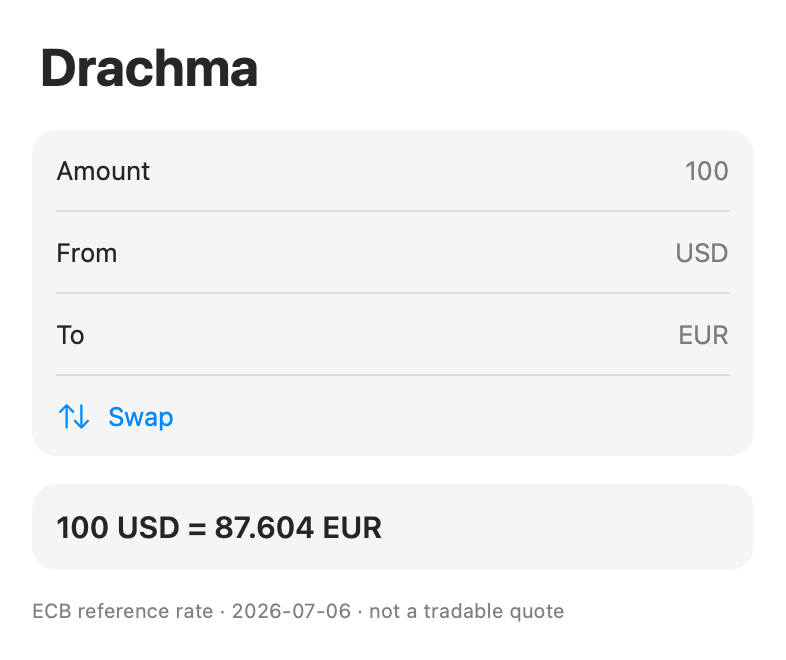
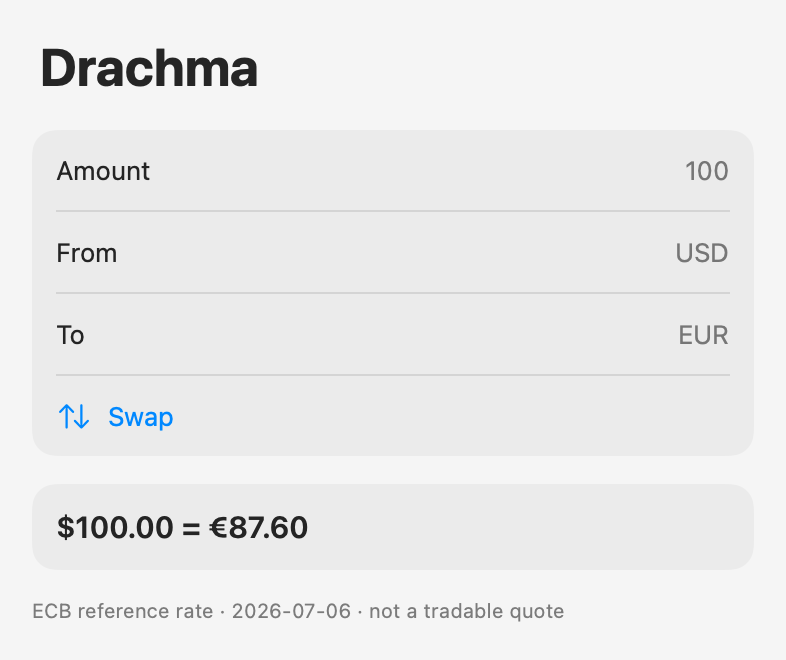
docs: light and dark screenshots, now with currency symbols
The render tool draws both color schemes from the same real view — dark mode
costs nothing because every color is semantic. Shots refresh to show the new
.currency formatting ($100.00 = €87.60).

Changed region(s): [[0.0611, 0.7576, 0.4885, 0.8182]]

diff --git a/tools/RenderScreenshots/main.swift b/tools/RenderScreenshots/main.swift
@@ -6,11 +6,11 @@ import DrachmaCore
 import DrachmaApp
 
 // Renders README screenshots straight from the real views (Pulse playbook).
-// Usage: swift run render-screenshots [output.png]
+// Usage: swift run render-screenshots [output-directory]
 
 /// Deterministic fixture using the actual ECB reference rates of 2026-07-06,
-/// captured during the MCP smoke test — so the screenshot is reproducible and
-/// shows real numbers.
+/// captured during the MCP smoke test — so the screenshots are reproducible
+/// and show real numbers.
 struct FixtureRates: RatesClient {
     func latestRates(base: String) async throws -> RatesSnapshot {
         RatesSnapshot(base: "USD", date: "2026-07-06", rates: [
@@ -28,46 +28,50 @@ struct FixtureRates: RatesClient {
     }
 }
 
-let output = CommandLine.arguments.count > 1
-    ? URL(fileURLWithPath: CommandLine.arguments[1])
-    : URL(fileURLWithPath: "docs/screenshots/converter.png")
+let outputDirectory = URL(fileURLWithPath: CommandLine.arguments.count > 1
+    ? CommandLine.arguments[1]
+    : "docs/screenshots")
 
 let model = ConverterViewModel(ratesClient: FixtureRates())
 await model.load()
 model.amountText = "100"
 
-let content = VStack(alignment: .leading, spacing: 0) {
-    Text("Drachma")
-        .font(.largeTitle.bold())
-        .padding(.horizontal, 20)
-        .padding(.top, 18)
-    ConverterView(model: model, staticControls: true)
-        .formStyle(.grouped)
-}
-.frame(width: 393, height: 330, alignment: .top)
-.background(Color(nsColor: .windowBackgroundColor))
+@MainActor
+func render(scheme: ColorScheme, to url: URL) throws {
+    let content = VStack(alignment: .leading, spacing: 0) {
+        Text("Drachma")
+            .font(.largeTitle.bold())
+            .padding(.horizontal, 20)
+            .padding(.top, 18)
+        ConverterView(model: model, staticControls: true)
+    }
+    .frame(width: 393, height: 330, alignment: .top)
+    .background(scheme == .dark ? Color(white: 0.11) : Color(white: 0.96))
+    .environment(\.colorScheme, scheme)
 
-let renderer = ImageRenderer(content: content)
-renderer.scale = 2
+    let renderer = ImageRenderer(content: content)
+    renderer.scale = 2
 
-guard let image = renderer.cgImage else {
-    FileHandle.standardError.write(Data("render failed: ImageRenderer produced no image\n".utf8))
-    exit(1)
+    guard let image = renderer.cgImage else {
+        throw RenderError.noImage
+    }
+    guard let destination = CGImageDestinationCreateWithURL(
+        url as CFURL, UTType.png.identifier as CFString, 1, nil
+    ) else {
+        throw RenderError.cannotWrite(url.path)
+    }
+    CGImageDestinationAddImage(destination, image, nil)
+    guard CGImageDestinationFinalize(destination) else {
+        throw RenderError.cannotWrite(url.path)
+    }
+    print("wrote \(url.path) (\(image.width)x\(image.height))")
 }
 
-try FileManager.default.createDirectory(
-    at: output.deletingLastPathComponent(),
-    withIntermediateDirectories: true
-)
-guard let destination = CGImageDestinationCreateWithURL(
-    output as CFURL, UTType.png.identifier as CFString, 1, nil
-) else {
-    FileHandle.standardError.write(Data("render failed: cannot create \(output.path)\n".utf8))
-    exit(2)
+enum RenderError: Error {
+    case noImage
+    case cannotWrite(String)
 }
-CGImageDestinationAddImage(destination, image, nil)
-guard CGImageDestinationFinalize(destination) else {
-    FileHandle.standardError.write(Data("render failed: could not finalize PNG\n".utf8))
-    exit(3)
-}
-print("wrote \(output.path) (\(image.width)x\(image.height))")
+
+try FileManager.default.createDirectory(at: outputDirectory, withIntermediateDirectories: true)
+try render(scheme: .light, to: outputDirectory.appendingPathComponent("converter.png"))
+try render(scheme: .dark, to: outputDirectory.appendingPathComponent("converter-dark.png"))

diff --git a/README.md b/README.md
@@ -60,9 +60,12 @@ Note the `rateDate`: this was recorded early Tuesday (CET), so the ECB reference
 
 ## What the human sees
 
-The converter screen, rendered straight from the real `ConverterView` by `swift run render-screenshots` — no simulator, no mockups — with the actual ECB reference rates of 2026-07-06:
+The converter screen in light and dark, rendered straight from the real `ConverterView` by `swift run render-screenshots` — no simulator, no mockups — with the actual ECB reference rates of 2026-07-06:
 
-<img src="docs/screenshots/converter.png" width="400" alt="Drachma converter: 100 USD = 87.604 EUR, with the footer 'ECB reference rate · 2026-07-06 · not a tradable quote'" />
+<p>
+<img src="docs/screenshots/converter.png" width="380" alt="Drachma converter, light mode: $100.00 = €87.60, with the footer 'ECB reference rate · 2026-07-06 · not a tradable quote'" />
+<img src="docs/screenshots/converter-dark.png" width="380" alt="Drachma converter, dark mode: the same screen with semantic colors adapting automatically" />
+</p>
 
 The footer line is the manifesto at work: every number carries its date.
 